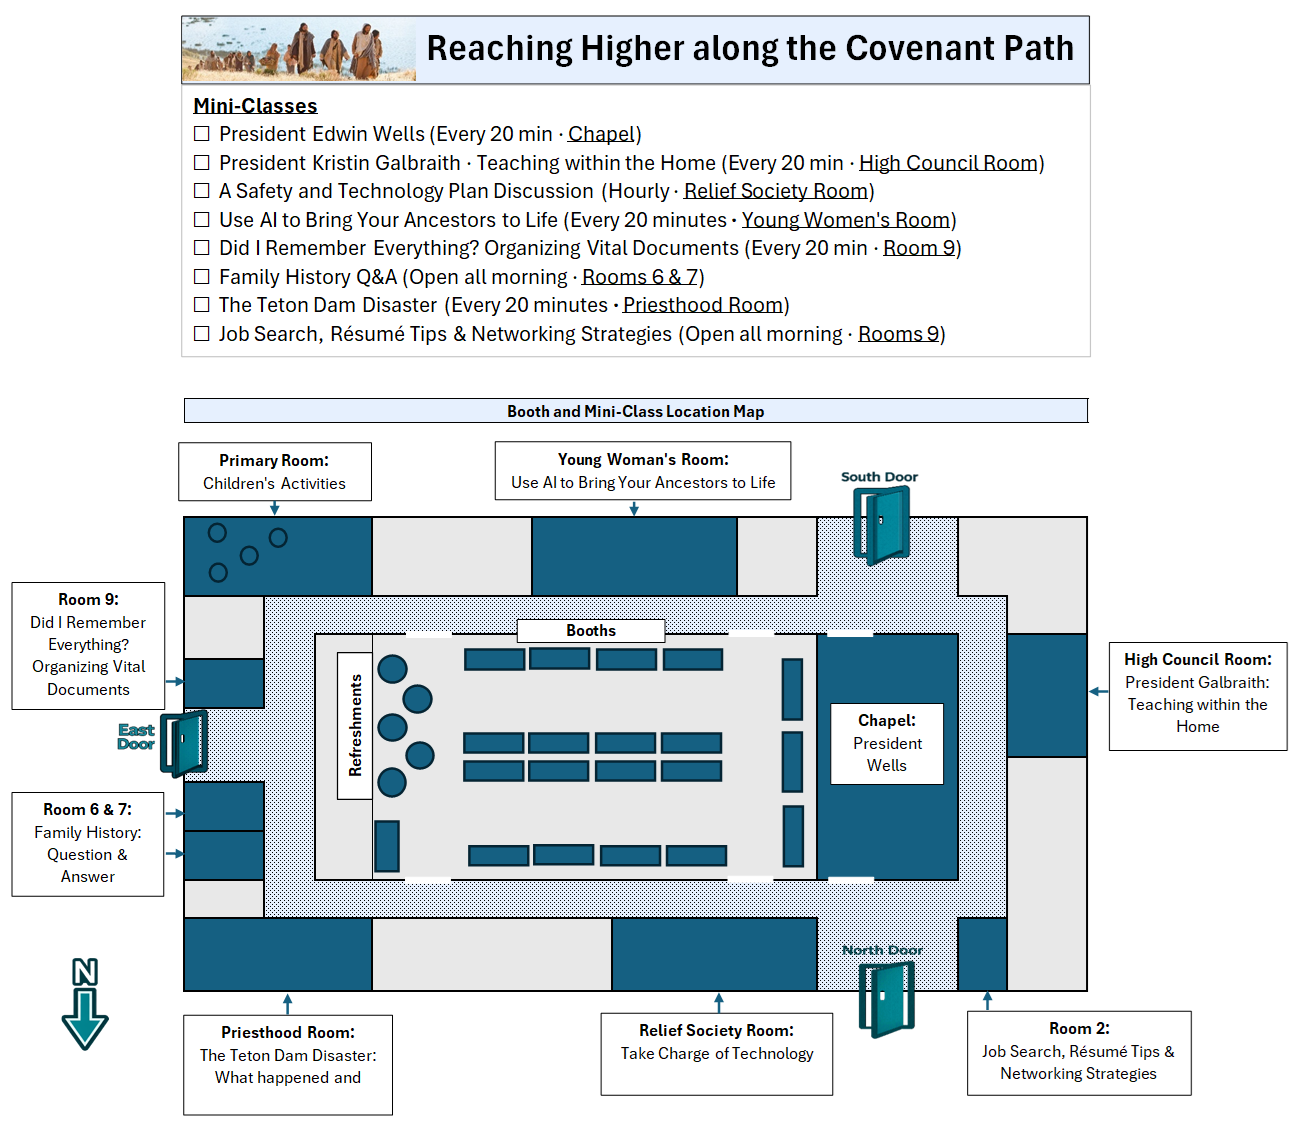
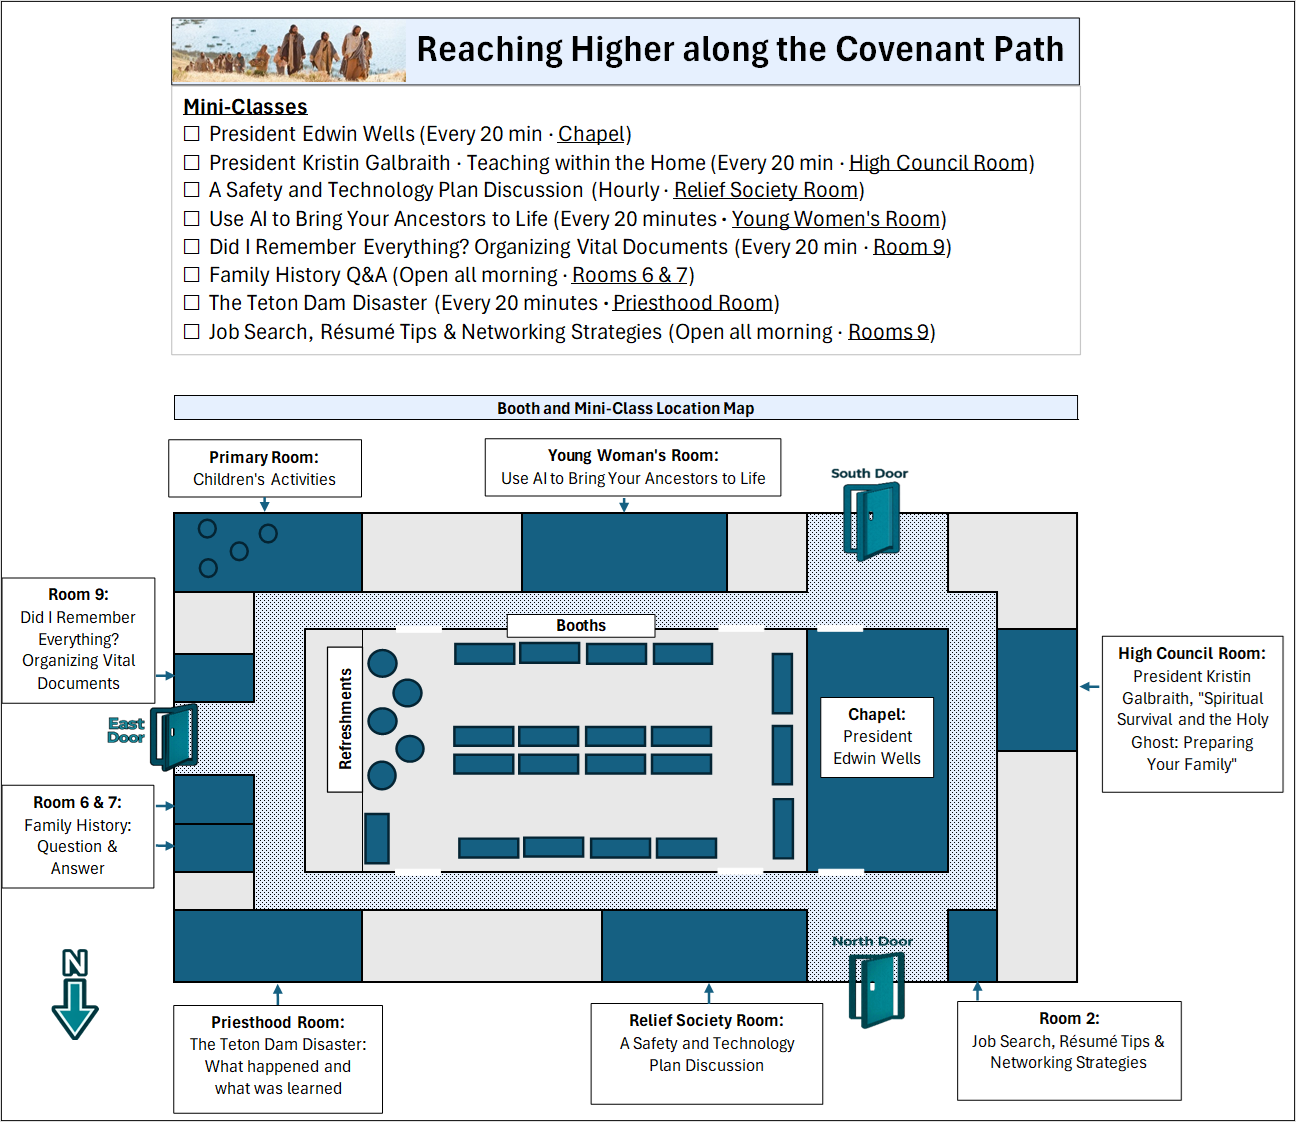
Update conference day map to new Map and Classes image
Replace MapOnly.png with the updated MapAndClasses.png (from assets) in
page.tsx and HiddenRevision.tsx.

https://claude.ai/code/session_01DcEorbj2ibe1s6mjwp2S8R

diff --git a/src/components/HiddenRevision.tsx b/src/components/HiddenRevision.tsx
@@ -68,7 +68,7 @@ export default function HiddenRevision({ onClose, onOpen, onOpenFlyers }: Hidden
           <div className="conf-map-crop">
             {/* eslint-disable-next-line @next/next/no-img-element */}
             <img
-              src={`${BASE_PATH}/images/MapOnly.png`}
+              src={`${BASE_PATH}/images/MapAndClasses.png`}
               alt="Booth and mini-class location map"
               className="conf-map-img"
             />

diff --git a/src/app/page.tsx b/src/app/page.tsx
@@ -88,7 +88,7 @@ export default function Home() {
           <div className="conf-map-crop">
             {/* eslint-disable-next-line @next/next/no-img-element */}
             <img
-              src={`${BASE_PATH}/images/MapOnly.png`}
+              src={`${BASE_PATH}/images/MapAndClasses.png`}
               alt="Booth and mini-class location map"
               className="conf-map-img"
             />
